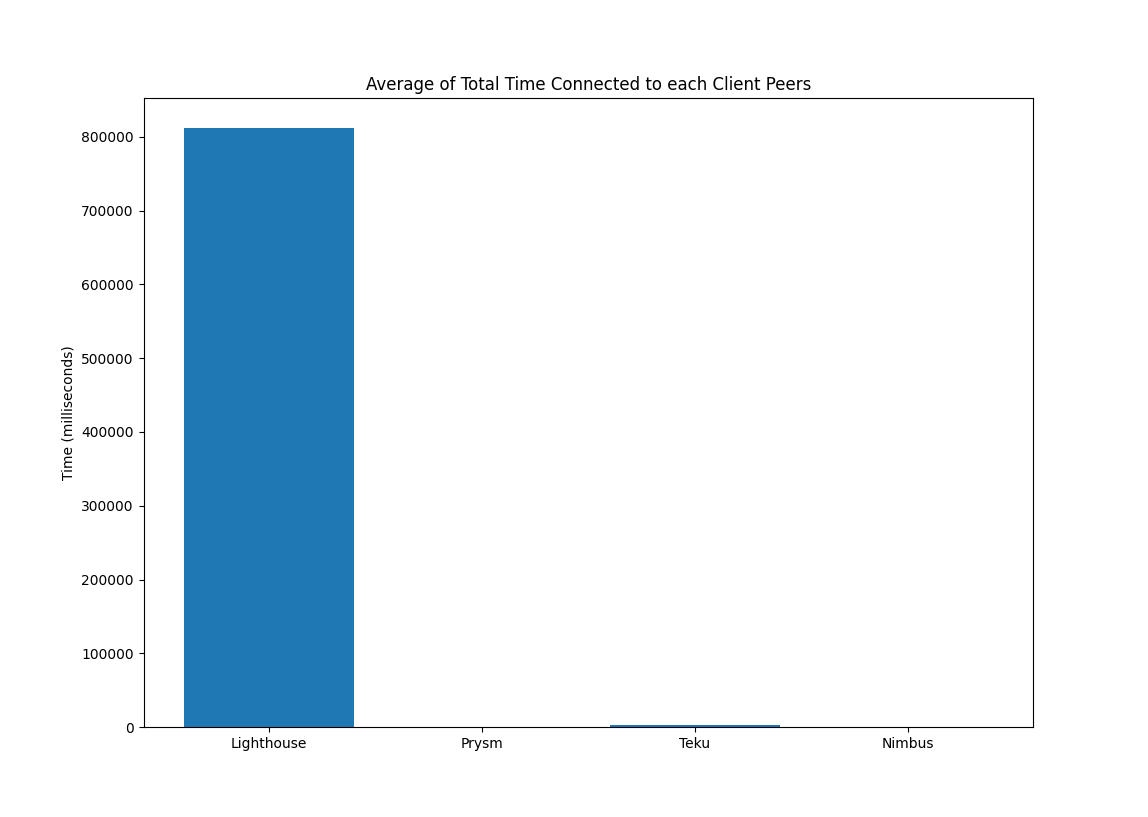
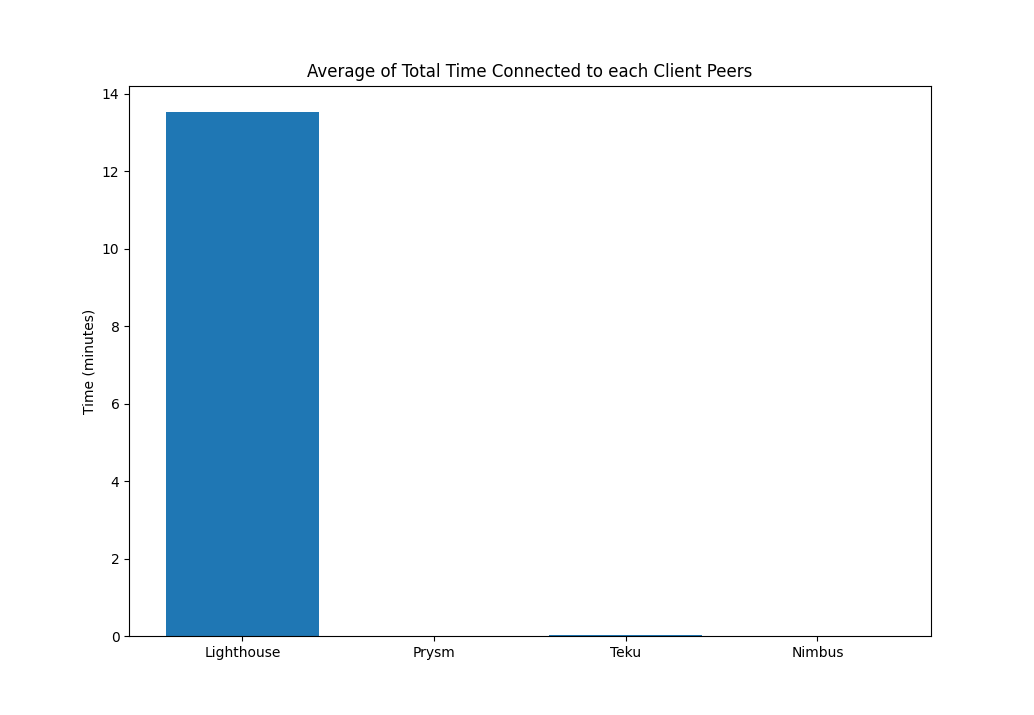
Updated figures 6 and 9 from millisecs to minutes

diff --git a/Armiarma/Armiarma.md b/Armiarma/Armiarma.md
@@ -14,7 +14,7 @@ Armiarma is divided into two main parts:
 1. The Network Crawler. A slightly tuned Rumor version used to gather the information about  the GossipSub implementation and peers. 
 2. The Data Analysis. Used to analyze and plot the gathered metrics from the crawler.
 
-NOTE: Rumor is a tool that is currently in development. So that the Armiarma Implementation is constantly improving and adding new features or gathering new metrics from the network.
+*NOTE: Rumor is a tool that is currently in development. So that the Armiarma Implementation is constantly improving and adding new features or gathering new metrics from the network.*
 
 
 ## Metrics from Medalla Testnet
@@ -39,7 +39,7 @@ Once we have been connected to a peer, it records:
 - proposer_slashing
 - attester_slashing
 
-NOTE: The data used to generate the plots that will be shown below has been taken with the alpha version of the crawler (non optimized version). This plots and results will be updated with new ones once the code is merged with the [recent update of rumor](https://github.com/protolambda/rumor/commit/6549267e93d4f409731d0e59ae45863347b0b226)
+*NOTE: The data used to generate the plots that will be shown below has been taken with the alpha version of the crawler (non optimized version). This plots and results will be updated with new ones once the code is merged with the [recent update of rumor](https://github.com/protolambda/rumor/commit/6549267e93d4f409731d0e59ae45863347b0b226)*
 
 ## Results
 
@@ -52,22 +52,22 @@ On a deeper analysis of the received metrics, this is the data we have been able
 ![Figure 3. Number of peers connected to, filtered by client type.](./charts/PeersOnClients.png)
 
 ![Figure 4. Number of connections established with each peer.](./charts/NumberOfConnectionsPerPeer.png)
-Note: The connection events are one per each GossipSub Topic (Connected to 5 topics in total)
+*Note: The connection events are one per each GossipSub Topic (Connected to 5 topics in total)*
 
 ![Figure 5. Number of disconnections with each peer.](./charts/NumberOfDisconnectionsPerPeer.png)
-Note: The connection events are one per each GossipSub Topic (Connected to 5 topics in total)
+*Note: The connection events are one per each GossipSub Topic (Connected to 5 topics in total)*
 
-![Figure 6. Amount of time connected with each peer in milliseconds.](./charts/MillisecondsConnectedToPeers.png)
-Note: The total amount of time is the sum of the time connected to each GossipSub Topic (Connected to 5 topics in total)
+![Figure 6. Amount of time connected with each peer in milliseconds.](./charts/MinutesConnectedToPeers.png)
+*Note: The total amount of time is the sum of the time connected to each GossipSub Topic (Connected to 5 topics in total)*
 
 ![Figure 7. Average connections to peers from the different clients.](./charts/AverageConnectionsPerClientPeers.png)
-Note: The average was made from the total amount of connections shown previously.
+*Note: The average was made from the total amount of connections shown previously.*
 
 ![Figure 8. Average disconnections to peers from the different clients.](./charts/AverageDisconnectionPerClientPeers.png)
-Note: The average was made from the total amount of disconnections shown previously.
+*Note: The average was made from the total amount of disconnections shown previously.*
 
 ![Figure 9. Average time connected to peers from the different clients.](./charts/AverageTotalTimeConnectedToClientPeers.png)
-Note: The average was made from the total amount of time shown previously.
+*Note: The average was made from the total amount of time shown previously.*
 
 ![Figure 10. Number of messages received on the BeaconBlock topic from peers filtered by clients.](./charts/NumberOfMessagesReceivedBeaconBlock.png)
 
@@ -78,7 +78,7 @@ Note: The average was made from the total amount of time shown previously.
 ![Figure 13. Average of messages received on the BeaconAggregateAndProof topic from peers filtered by clients.](./charts/AverageMessagesReceivedBeaconAggregateAndProof.png)
 
 ![Figure 14. Standard chart for the rest to Topics: voluntary_exit, proposer_slashing, attester_slashing](./charts/EmptyGraphForMessages.png)
-Note: No messages received on those topics.
+*Note: No messages received on those topics.*
 
 
 ## Conclusion and Future Work
